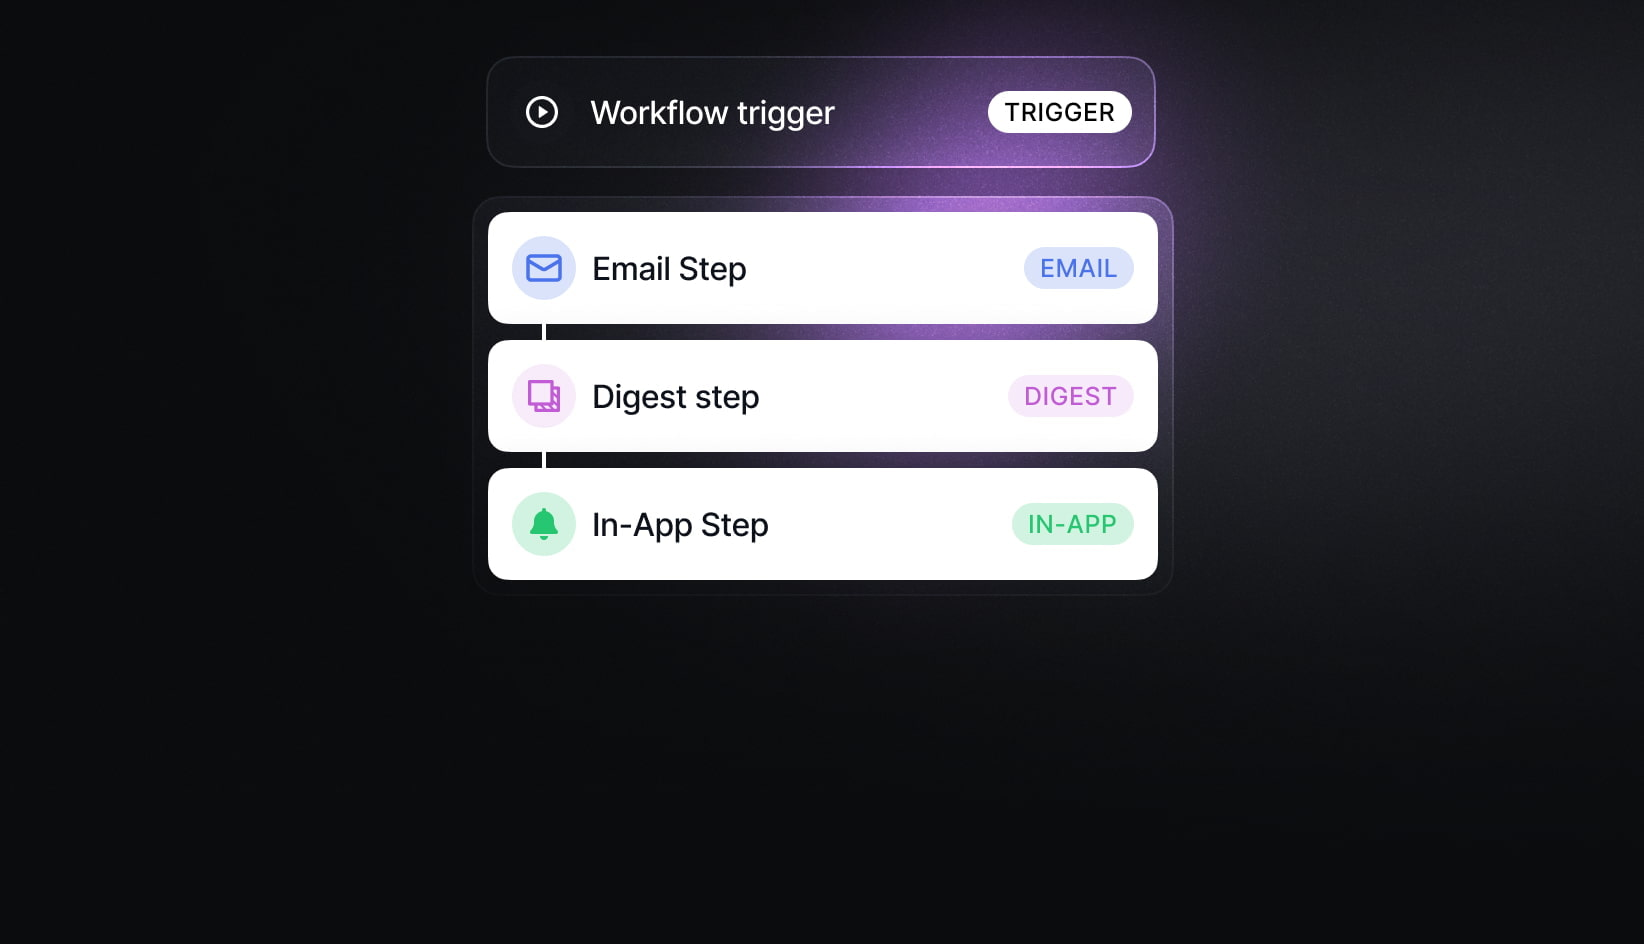
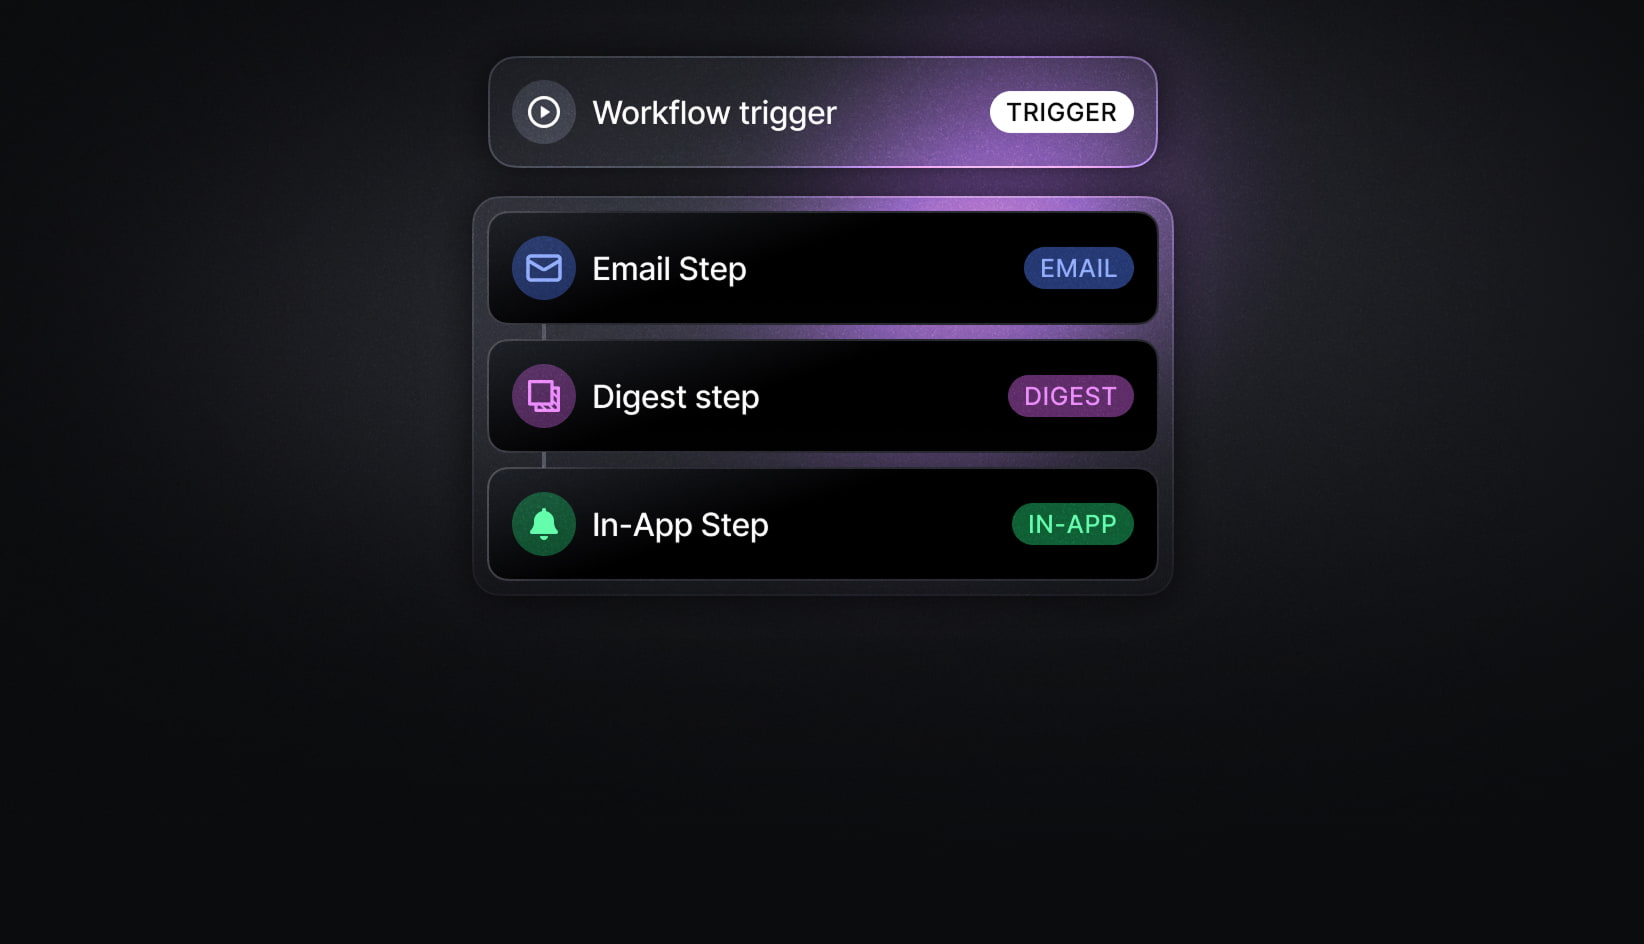
feat(home): refine interactive homepage sections

Changed region(s): [[0.2792, 0.0614, 0.7135, 0.6144]]

diff --git a/src/components/pages/home/features/index.tsx b/src/components/pages/home/features/index.tsx
@@ -160,7 +160,7 @@ function Features({
 
         <div className="relative mt-10 md:mt-18">
           <Button
-            className="absolute top-2.5 left-0 z-10 hidden size-8 rounded-[0.5rem] border-gray-20 p-0 before:-inset-1.5 md:top-4 md:flex [&_svg]:size-3.5"
+            className="absolute top-2.5 left-0 z-10 hidden size-8 rounded-[0.5rem] border-gray-20 p-0 before:-inset-1.5 sm:flex md:top-4 [&_svg]:size-3.5"
             variant="outline-transparent"
             size="icon"
             type="button"
@@ -171,7 +171,7 @@ function Features({
           </Button>
 
           <div
-            className="scrollbar-hidden -mx-5 touch-pan-x overscroll-x-contain overflow-x-auto pr-14 pl-8 mask-[linear-gradient(to_right,transparent_0%,black_2rem,black_calc(100%_-_3rem),transparent_100%)] md:mx-0 md:px-18 md:mask-[linear-gradient(to_right,transparent_3rem,black_5rem,black_calc(100%_-_5rem),transparent_calc(100%_-_3rem))]"
+            className="scrollbar-hidden -mx-5 touch-pan-x overscroll-x-contain overflow-x-auto mask-[linear-gradient(to_right,transparent,black_1.25rem,black_calc(100%_-_1.25rem),transparent)] px-5 sm:mask-[linear-gradient(to_right,transparent_2.5rem,black_4rem,black_calc(100%_-_4rem),transparent_calc(100%_-_2.5rem))] sm:px-20 md:mx-0 md:mask-[linear-gradient(to_right,transparent_3rem,black_5rem,black_calc(100%_-_5rem),transparent_calc(100%_-_3rem))] md:px-18"
             ref={tabListRef}
             role="tablist"
             aria-label="Communication channels"
@@ -236,7 +236,7 @@ function Features({
           </div>
 
           <Button
-            className="absolute top-2.5 right-0 z-10 hidden size-8 rounded-[0.5rem] border-gray-20 p-0 before:-inset-1.5 md:top-4 md:flex [&_svg]:size-3.5"
+            className="absolute top-2.5 right-0 z-10 hidden size-8 rounded-[0.5rem] border-gray-20 p-0 before:-inset-1.5 sm:flex md:top-4 [&_svg]:size-3.5"
             variant="outline-transparent"
             size="icon"
             type="button"
@@ -290,7 +290,7 @@ function Features({
               {activeItem.availability === "live" ? (
                 <>
                   <CopyPromptButton
-                    className="h-11 w-39 px-5 text-base leading-none font-medium tracking-tight normal-case [&_svg]:size-3.5"
+                    className="h-11 w-full px-5 text-base leading-none font-medium tracking-tight normal-case sm:w-39 [&_svg]:size-3.5"
                     key={activeItem.key}
                     size="none"
                     resetInterval={2000}
@@ -300,7 +300,7 @@ function Features({
                   {activeItem.cliCommand ? (
                     <CliCommand
                       command={activeItem.cliCommand}
-                      className="rounded-md sm:min-w-72"
+                      className="min-w-0 rounded-md"
                     />
                   ) : null}
                 </>

diff --git a/src/components/pages/home/connect-channel-arc.tsx b/src/components/pages/home/connect-channel-arc.tsx
@@ -2,6 +2,7 @@
 
 import { useEffect, useRef, useState, type CSSProperties } from "react"
 import Image, { type StaticImageData } from "next/image"
+import mascotIcon from "@/images/pages/home/novu-connect/mascot.svg"
 import { AnimatePresence, motion, useReducedMotion } from "motion/react"
 
 import { cn } from "@/lib/utils"
@@ -75,6 +76,10 @@ const CHANNEL_TILES = {
     key: "zoom",
     label: "Zoom",
   },
+  mascot: {
+    key: "mascot",
+    label: "Novu mascot",
+  },
 } satisfies Record<string, IOrbitTile>
 
 type ChannelTileKey = keyof typeof CHANNEL_TILES
@@ -90,7 +95,7 @@ const OUTER_ORBIT_KEYS: ChannelTileKey[] = [
   "zoom",
   "imessage",
   "google-chat",
-  "discord",
+  "mascot",
   "telegram",
   "whatsapp",
   "teams",
@@ -101,12 +106,12 @@ const OUTER_ORBIT_KEYS: ChannelTileKey[] = [
   "zoom",
   "linear",
   "teams",
-  "whatsapp",
+  "slack",
   "telegram",
-  "discord",
+  "mascot",
   "google-chat",
   "imessage",
-  "slack",
+  "whatsapp",
 ]
 
 const INNER_ORBIT_KEYS: ChannelTileKey[] = [
@@ -192,6 +197,24 @@ function OrbitTile({
     top: `${50 + Math.sin(radians) * radius}%`,
     "--mb-tile-rot": `${angle + 90}deg`,
   } as CSSProperties
+
+  if (tile.key === "mascot") {
+    return (
+      <div
+        className="mb-arc-mascot rounded-full shadow-[0_0_28px_4px_rgba(0,14,49,0.10)]"
+        style={style}
+        aria-hidden
+      >
+        <Image
+          className="size-full"
+          src={mascotIcon}
+          alt=""
+          draggable={false}
+          aria-hidden
+        />
+      </div>
+    )
+  }
 
   const activeTile = { ...tile, id, orbit }
 
@@ -390,14 +413,13 @@ function ConnectChannelArc({
         <div className="mb-arc">
           {backgroundImage && (
             <Image
-              className="object-cover"
+              className="pointer-events-none object-cover"
               src={backgroundImage}
               alt=""
               fill
               sizes={backgroundSizes}
               quality={100}
-              aria-hidden
-              draggable={false}
+              aria-hidden="true"
             />
           )}
 

diff --git a/src/components/pages/home/novu-connect.tsx b/src/components/pages/home/novu-connect.tsx
@@ -71,7 +71,7 @@ function NovuConnect({
               {title}
             </h2>
 
-            <p className="mt-4 text-base leading-normal font-light tracking-tighter text-pretty text-gray-60 md:text-lg lg:max-w-sm xl:text-xl xl:leading-[1.875rem]">
+            <p className="mt-4 text-base leading-normal font-normal tracking-tighter text-pretty text-gray-60 md:text-lg lg:max-w-sm xl:text-xl xl:leading-[1.875rem]">
               {description}
             </p>
           </div>
@@ -101,7 +101,7 @@ function NovuConnect({
               return (
                 <li
                   className={cn(
-                    "magic-bento-card relative flex h-96 w-full min-w-0 grow flex-col overflow-hidden rounded-xl border border-gray-20 bg-[#0B0C0E] p-6 md:p-7 lg:h-auto lg:w-auto lg:min-w-0 lg:grow-0",
+                    "magic-bento-card relative flex h-96 w-full min-w-0 grow flex-col overflow-hidden rounded-xl border border-gray-20 bg-[#0B0C0E] p-5 md:p-7 lg:h-auto lg:w-auto lg:min-w-0 lg:grow-0",
                     isWide
                       ? "lg:aspect-[744/472] lg:basis-[calc(62.2074%_-_13px)]"
                       : "lg:aspect-[452/472] lg:basis-[calc(37.7926%_-_8px)]"
@@ -117,7 +117,7 @@ function NovuConnect({
                     <h3 className="w-fit text-base leading-tight font-medium tracking-tighter text-foreground md:text-lg/tight xl:text-xl/tight">
                       {item.title}
                     </h3>
-                    <p className="mt-2.5 text-sm leading-normal font-light tracking-tighter text-gray-50 md:text-base">
+                    <p className="mt-2.5 text-sm leading-normal font-normal tracking-tighter text-gray-50 md:text-base">
                       {item.description}
                     </p>
                   </div>

diff --git a/src/components/pages/home/novu-notify.tsx b/src/components/pages/home/novu-notify.tsx
@@ -118,7 +118,7 @@ function NovuNotify({
             )}
             <div className="relative flex min-w-0 flex-col md:contents">
               <div className="relative z-30 max-w-[26.5625rem] md:absolute md:top-[27px] md:left-[27px]">
-                <h3 className="text-lg leading-tight font-normal tracking-tighter text-foreground md:text-xl md:leading-none">
+                <h3 className="text-base leading-tight font-normal tracking-tighter text-foreground md:text-xl md:leading-none">
                   {featuredItem.title}
                 </h3>
                 <p className="mt-2.5 text-sm leading-normal font-normal tracking-tighter text-pretty text-gray-50 md:w-80 md:text-base xl:w-114">
@@ -210,10 +210,10 @@ function NovuNotify({
                   ) : null}
 
                   <div className="relative z-10">
-                    <h3 className="w-fit text-lg leading-none font-medium tracking-tighter text-foreground lg:text-xl">
+                    <h3 className="w-fit text-base/tight font-medium tracking-tighter text-foreground md:text-lg/tight lg:text-xl">
                       {item.title}
                     </h3>
-                    <p className="mt-2.5 text-base font-normal tracking-tighter text-pretty text-gray-50">
+                    <p className="mt-2.5 text-sm/normal font-normal tracking-tighter text-pretty text-gray-50 md:text-base">
                       {item.description}
                     </p>
                   </div>

diff --git a/src/components/pages/home/communication-lifecycle.tsx b/src/components/pages/home/communication-lifecycle.tsx
@@ -80,12 +80,12 @@ function CommunicationLifecycle({
       )}
     >
       <div className="mx-auto w-full max-w-3xl px-5 md:px-8 lg:max-w-7xl">
-        <header className="grid gap-16 xl:grid-cols-[35.875rem_35.25rem] xl:items-start xl:gap-19.5">
+        <header className="grid gap-9 md:gap-12 xl:grid-cols-[35.875rem_35.25rem] xl:items-start xl:gap-19.5">
           <h2 className="max-w-xl text-[2rem] leading-[1.125] font-normal tracking-plus-tight text-balance text-foreground md:text-5xl xl:text-[3.5rem]">
             {title}
           </h2>
 
-          <ul className="grid gap-14 sm:grid-cols-2 sm:gap-10 xl:gap-14 xl:pt-1.25">
+          <ul className="grid gap-10 sm:grid-cols-2 xl:gap-14 xl:pt-1.25">
             {actions.slice(0, 2).map((action) => (
               <li className="flex flex-col" key={action.title}>
                 <div className="relative inline-flex w-fit">
@@ -117,7 +117,7 @@ function CommunicationLifecycle({
           </ul>
         </header>
 
-        <div className="mt-18">
+        <div className="mt-12 md:mt-14 lg:mt-18">
           <PlatformFlowAnimation
             activeTab={activeTab}
             onStepComplete={handleStepComplete}

diff --git a/src/components/pages/home/features/cli-command.tsx b/src/components/pages/home/features/cli-command.tsx
@@ -2,8 +2,8 @@
 
 import { Check, Copy } from "lucide-react"
 
-import useCopyToClipboard from "@/hooks/use-copy-to-clipboard"
 import { cn } from "@/lib/utils"
+import useCopyToClipboard from "@/hooks/use-copy-to-clipboard"
 
 interface ICliCommandProps {
   command: string
@@ -23,8 +23,10 @@ function CliCommand({ command, className }: ICliCommandProps) {
         className
       )}
     >
-      <span className="shrink-0 select-none text-gray-50">$</span>
-      <span className="truncate">{command}</span>
+      <span className="shrink-0 text-gray-50 select-none">$</span>
+      <span className="inline-flex w-[calc(100vw-12rem)] min-w-0 justify-start truncate sm:inline sm:w-auto">
+        {command}
+      </span>
       <span className="ml-auto shrink-0 text-gray-50 transition-colors group-hover:text-foreground">
         {isCopied ? (
           <Check className="size-3.5" aria-hidden />

diff --git a/src/components/pages/home/features/channel-icon.tsx b/src/components/pages/home/features/channel-icon.tsx
@@ -84,7 +84,7 @@ function ChannelIcon({
   return (
     <Icon
       className={cn(
-        "size-5 shrink-0 text-gray-50 transition-colors duration-200 group-hover:text-[var(--channel-color)] group-focus-visible:text-[var(--channel-color)] md:size-7 [&>path]:transition-[fill] [&>path]:duration-200",
+        "size-6 shrink-0 text-gray-50 transition-colors duration-200 group-hover:text-[var(--channel-color)] group-focus-visible:text-[var(--channel-color)] md:size-7 [&>path]:transition-[fill] [&>path]:duration-200",
         isActive && "text-[var(--channel-color)]",
         channel === "slack" &&
           (isActive ? SLACK_ACTIVE_CLASSES : SLACK_HOVER_CLASSES),

diff --git a/src/styles/magic-bento.css b/src/styles/magic-bento.css
@@ -194,6 +194,14 @@
   pointer-events: auto;
 }
 
+.mb-arc-mascot {
+  position: absolute;
+  aspect-ratio: 1;
+  translate: -50% -50%;
+  transform: rotate(var(--mb-tile-rot, 0deg));
+  pointer-events: none;
+}
+
 .mb-arc-tile-base-bg,
 .mb-arc-tile-hover-bg,
 .mb-arc-tile-hover-border {
@@ -217,11 +225,13 @@
   opacity: 0;
 }
 
-.mb-channel-orbit-outer .mb-arc-tile {
+.mb-channel-orbit-outer .mb-arc-tile,
+.mb-channel-orbit-outer .mb-arc-mascot {
   width: 8.73%;
 }
 
-.mb-channel-orbit-inner .mb-arc-tile {
+.mb-channel-orbit-inner .mb-arc-tile,
+.mb-channel-orbit-inner .mb-arc-mascot {
   width: 11.09%;
 }
 

diff --git a/src/components/pages/home/connect-stack.tsx b/src/components/pages/home/connect-stack.tsx
@@ -320,7 +320,7 @@ I will complete the interactive CLI and approve dependency installs when asked. 
             </p>
 
             <div className="mt-5.5 flex h-10 min-w-0 items-center rounded-md border border-[#534b5d] bg-[#040406] p-1 focus-within:ring-2 focus-within:ring-foreground/30">
-              <code className="min-w-0 flex-1 truncate px-2 font-mono text-xs text-foreground md:text-sm">
+              <code className="min-w-0 flex-1 truncate px-2 font-mono text-sm text-foreground">
                 {prompt}
               </code>
               <CopyPromptButton

diff --git a/src/components/pages/home/features/notify-me.tsx b/src/components/pages/home/features/notify-me.tsx
@@ -59,7 +59,7 @@ function NotifyMe({
   return (
     <form
       onSubmit={handleSubmit}
-      className={cn("relative h-11 w-[22.1875rem] max-w-full", className)}
+      className={cn("relative h-11 w-full max-w-full sm:w-89", className)}
     >
       <input
         ref={inputRef}
